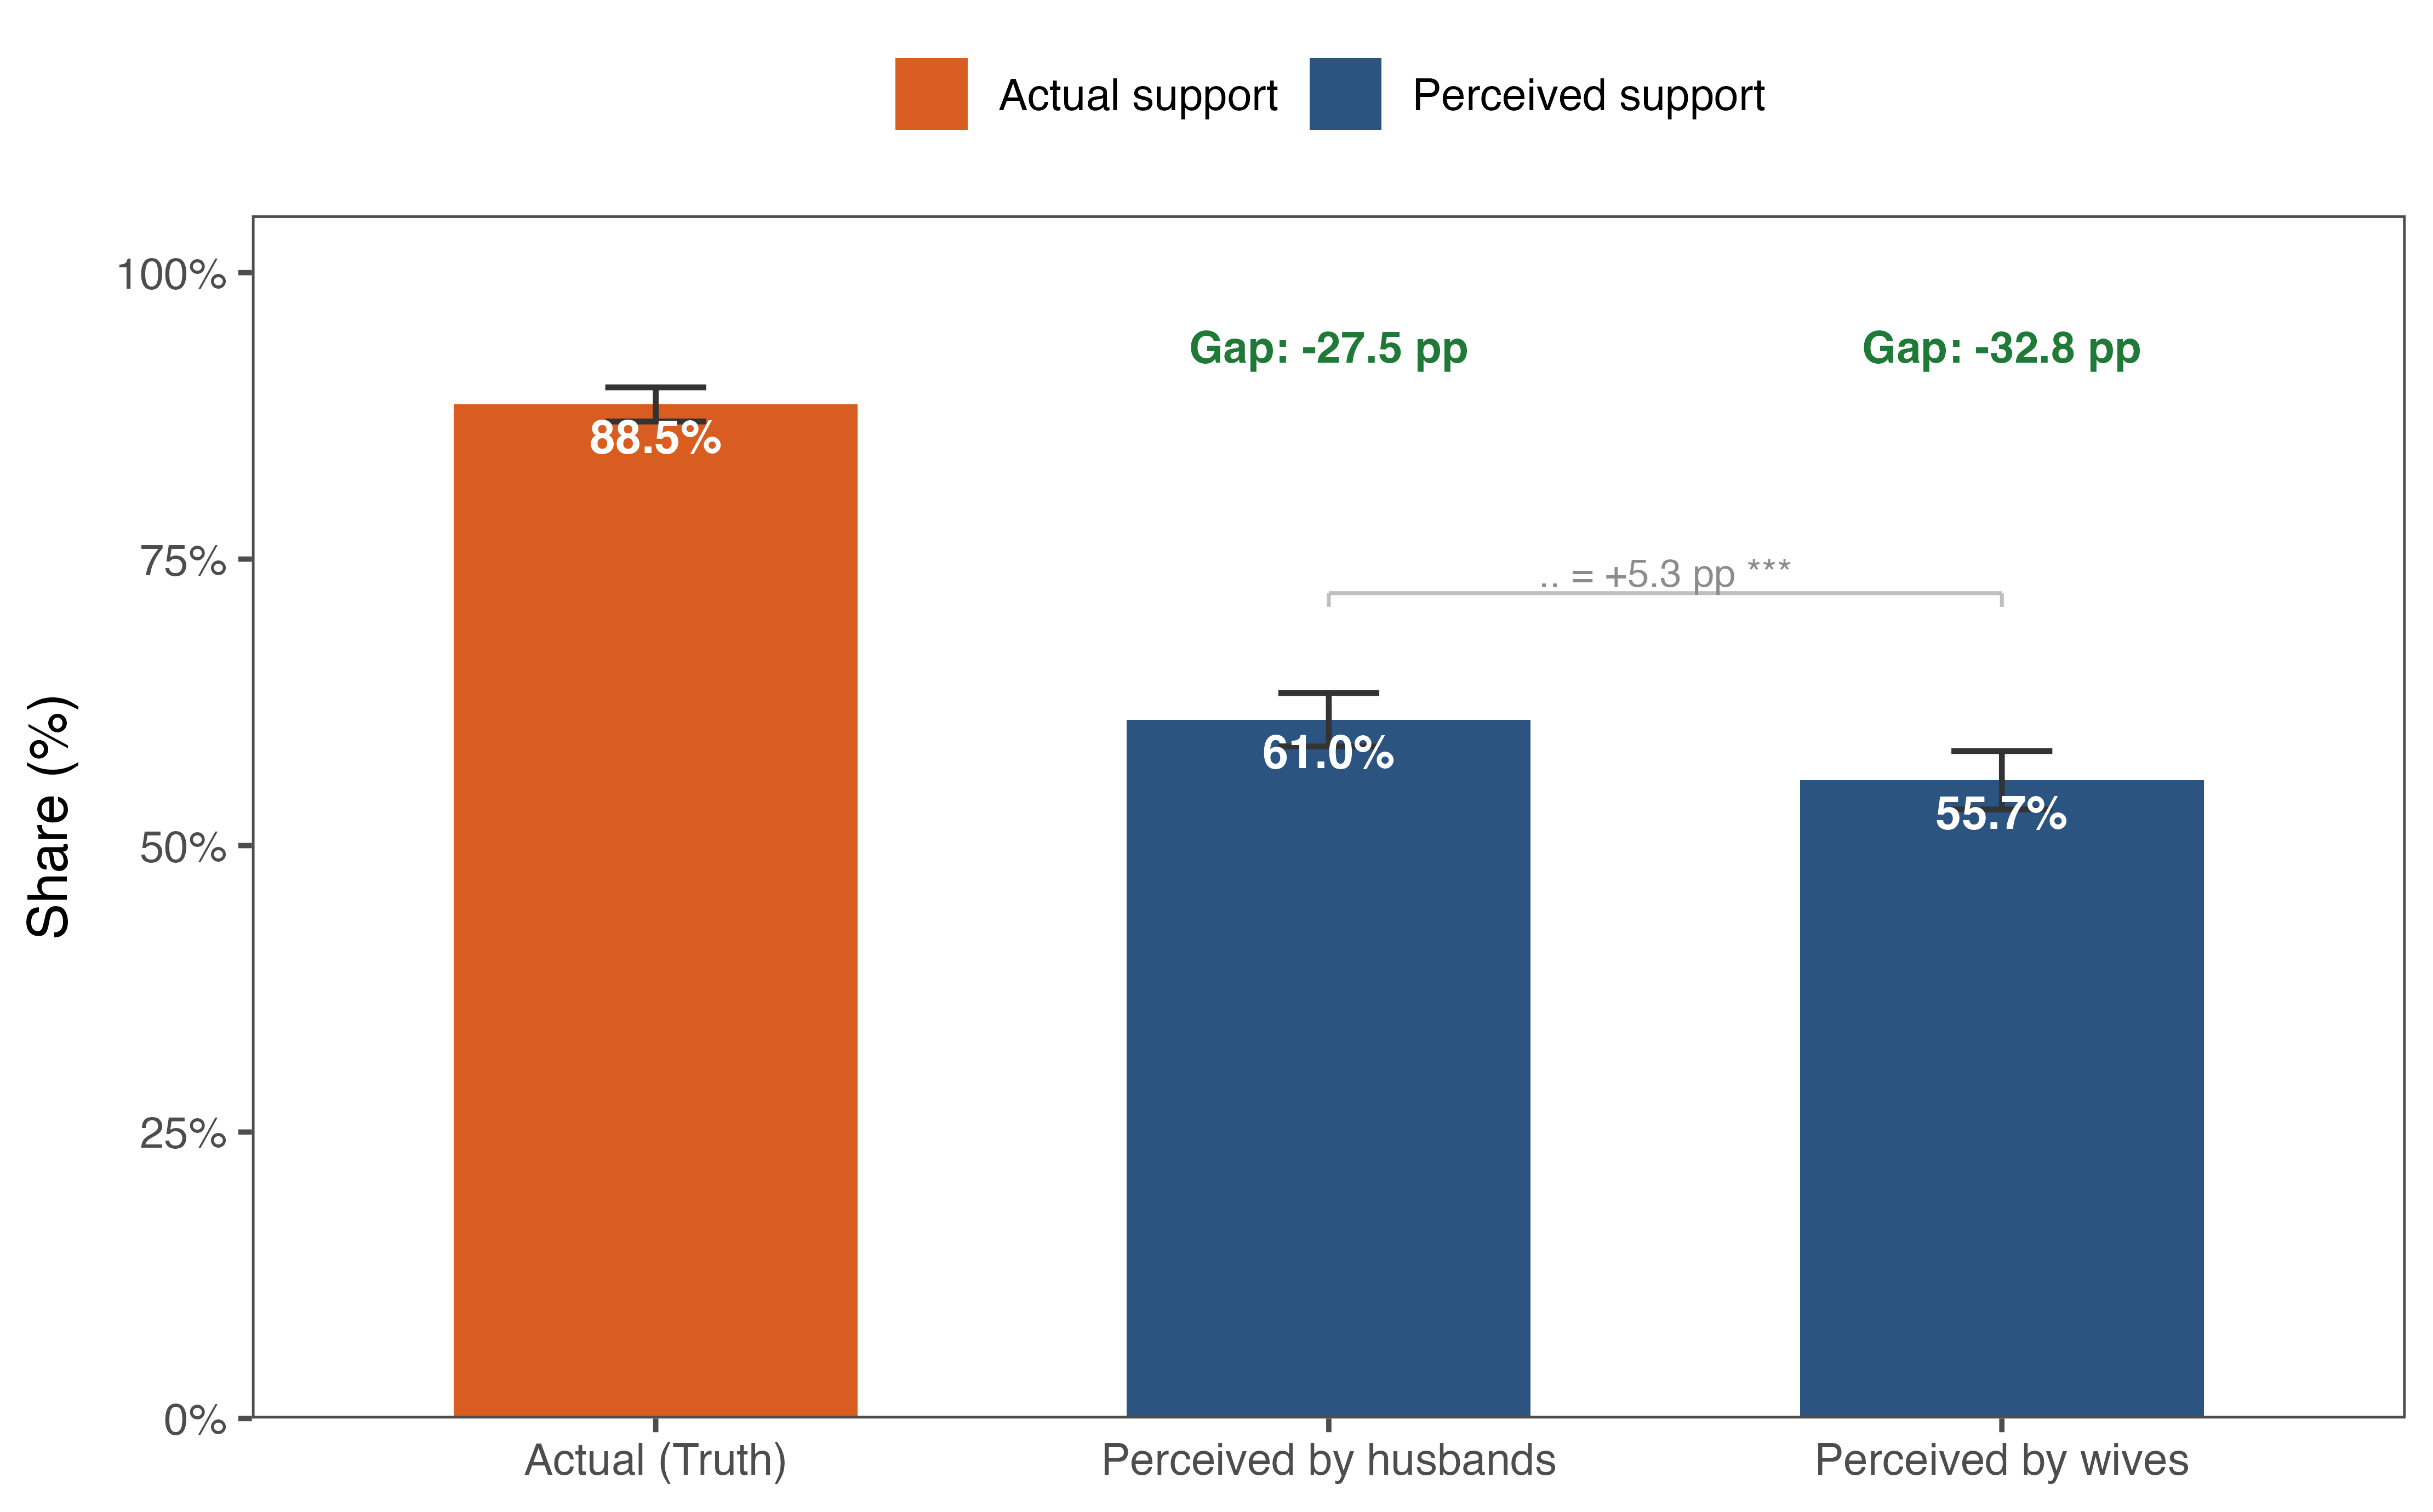
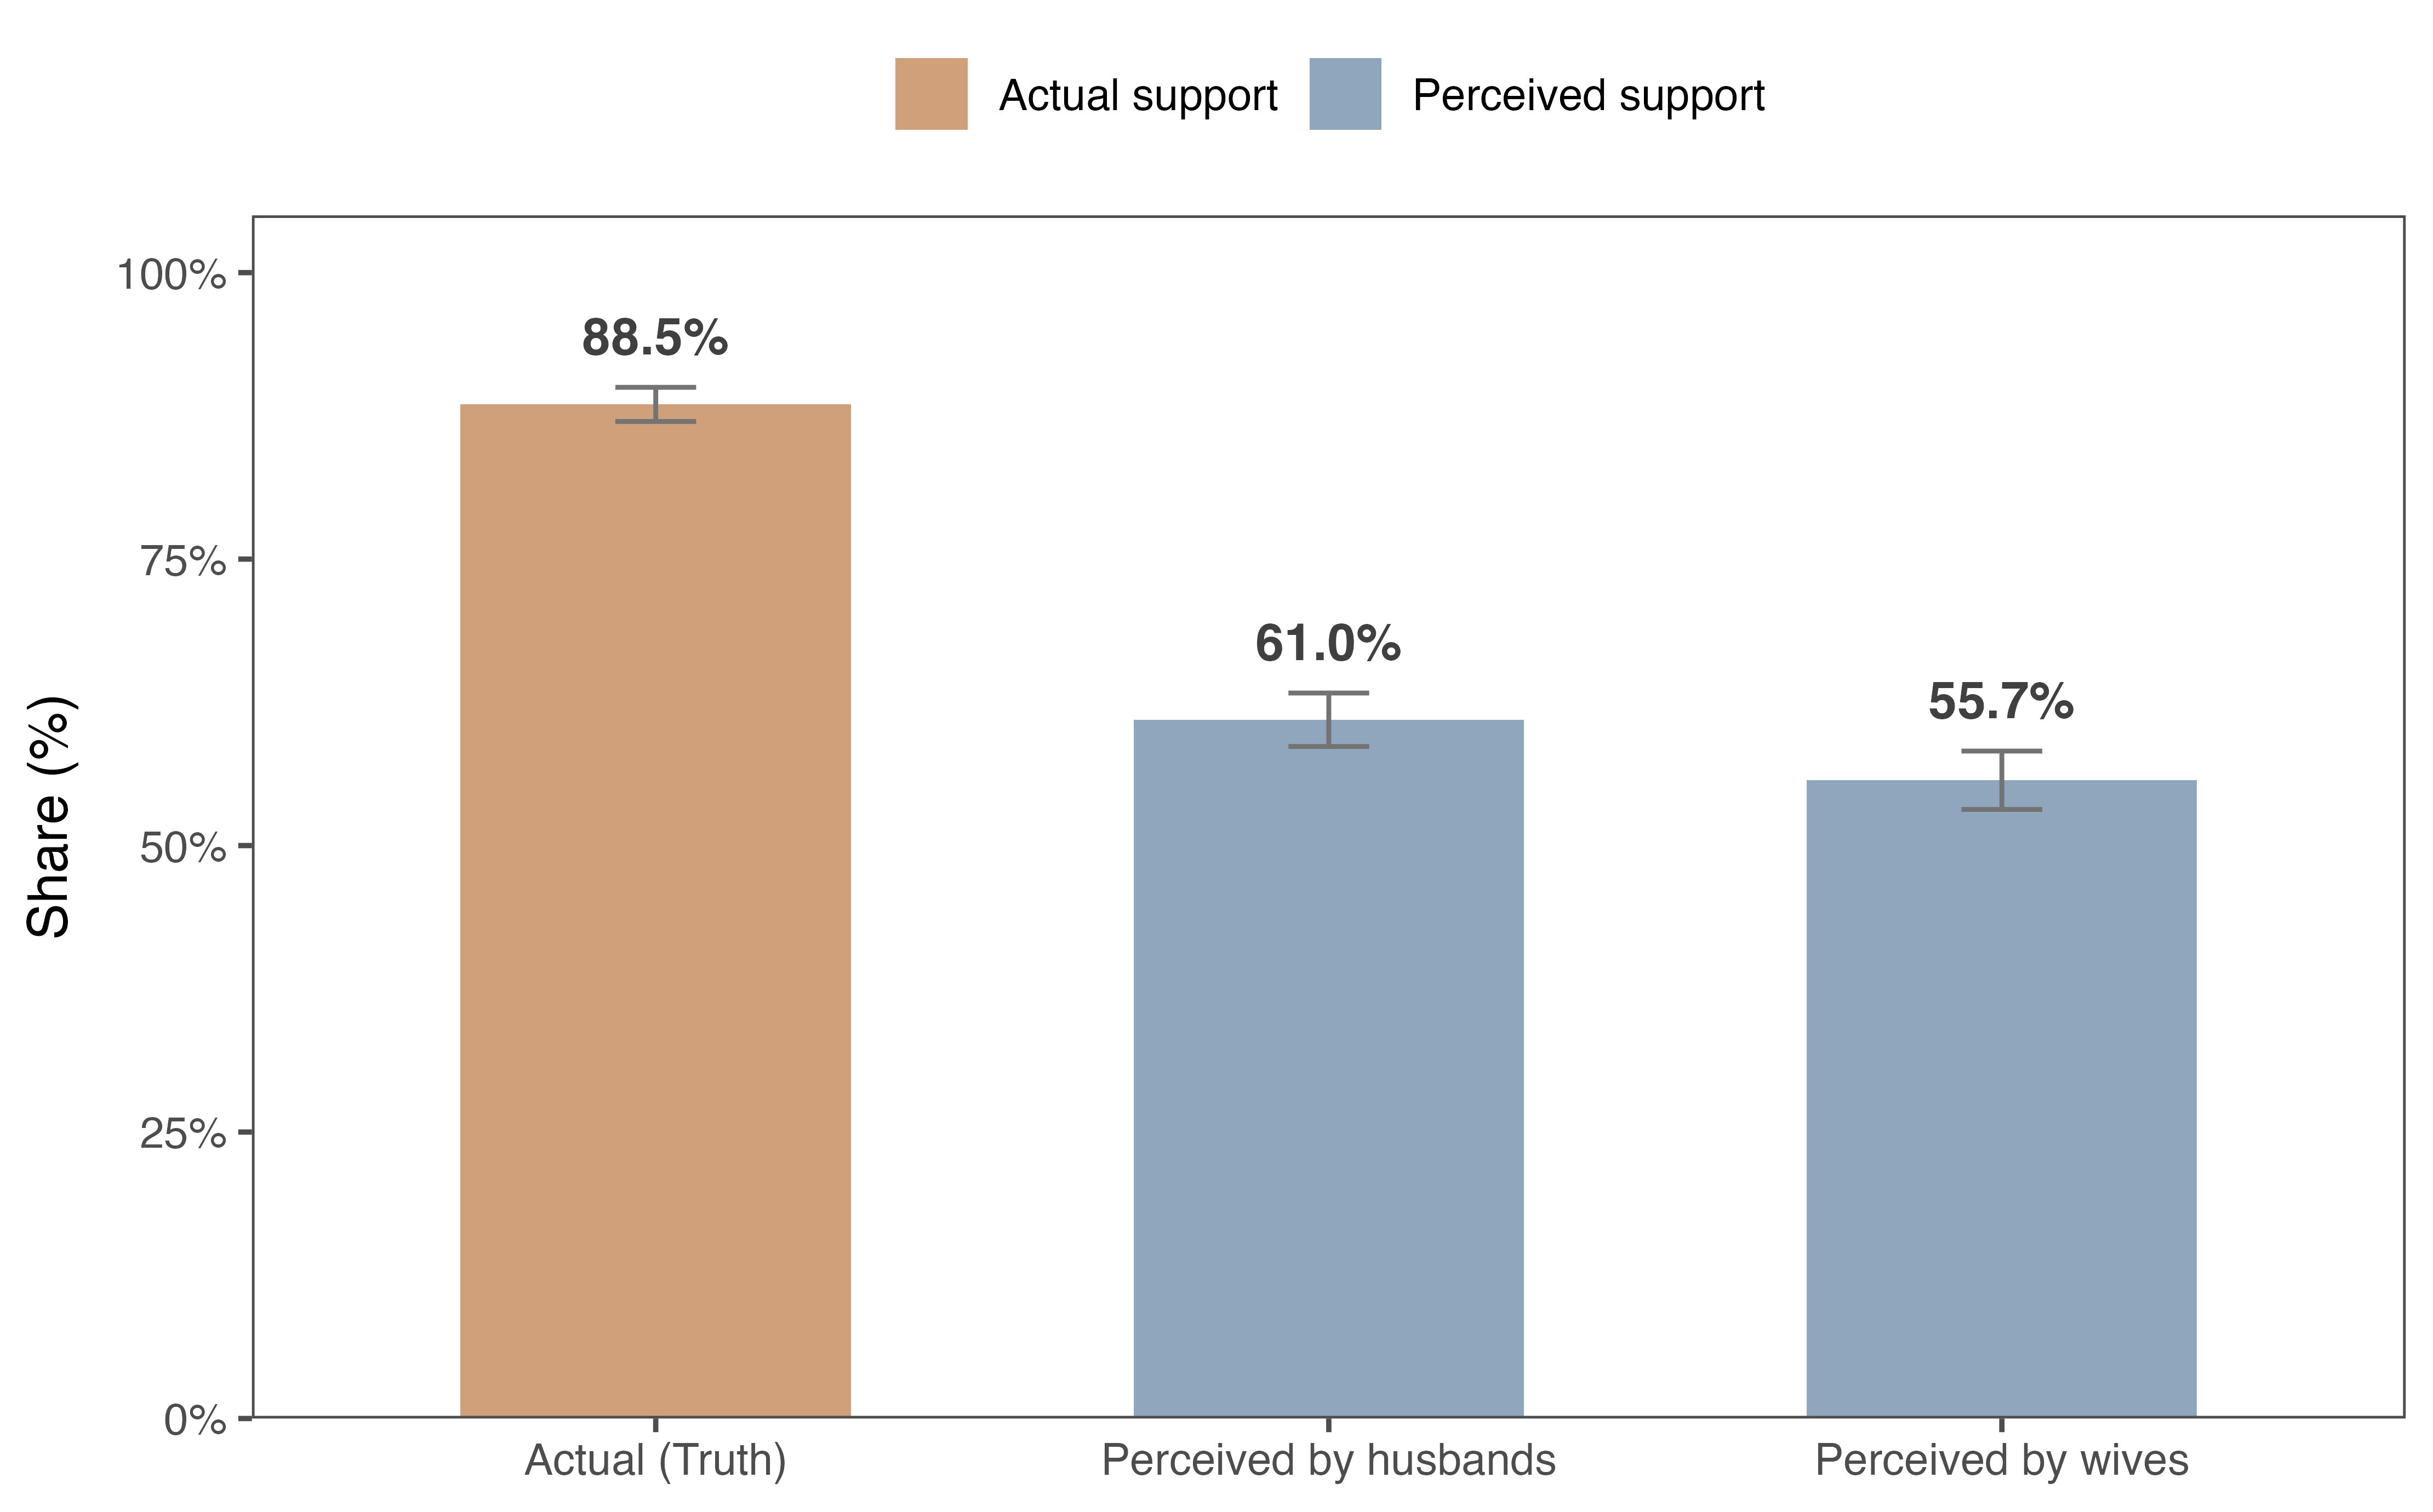
Barbados RIDGE: clarity pass after rehearsal
- Bigger section tag (.68em -> .82em) across all slides
- RQ2 dashboard: drop the binary misperception row, keep only
  "belief about partner" (per rehearsal note — was too busy)
- RQ4 dashboard: de-emphasize men's WFB (stated preference, secondary);
  women's job mobility is the clear headline
- FigureA1/A2: softer desaturated palette, value labels above bars in
  grey, gap labels and significance bracket removed (less visual noise)
- Baseline beliefs table moved to Appendix with bidirectional hyperlink
  (figures slide stays in body; table is Q&A backup)

diff --git a/presentaciones/norms-RIDGE-BARBADOS-2026.html b/presentaciones/norms-RIDGE-BARBADOS-2026.html
@@ -105,8 +105,8 @@ body {
   padding-bottom: 10px; margin-bottom: 20px; flex-shrink:0;
 }
 .sh .sec-tag {
-  color:var(--orange); font-size:.68em; font-weight:700;
-  letter-spacing:2px; text-transform:uppercase; margin-bottom:3px;
+  color:var(--orange); font-size:.82em; font-weight:700;
+  letter-spacing:1.5px; text-transform:uppercase; margin-bottom:4px;
 }
 .sh h2 { color:var(--navy); font-size:1.7em; font-weight:700; line-height:1.2; }
 
@@ -1358,52 +1358,15 @@ ul.bul li.gap { margin-top:10px; }
 </div>
 
 
-<!-- ══════════════════════════════════════════════
-     SLIDE 22 · BASELINE BELIEFS TABLE
-═══════════════════════════════════════════════ -->
-<div class="slide" data-section="Baseline Facts">
-  <div class="sh">
-    <div class="sec-tag">Baseline Facts · Beliefs</div>
-    <h2>Baseline Beliefs: Target Norm & Placebo</h2>
-  </div>
-  <div class="content" style="display:flex; justify-content:center;">
-    <table class="tbl" style="font-size:0.88em; width:80%;">
-      <thead>
-        <tr>
-          <th class="tl" style="width:45%;">Belief Type</th>
-          <th>Husbands</th>
-          <th>Wives</th>
-          <th>Difference</th>
-        </tr>
-      </thead>
-      <tbody>
-        <tr class="ph"><td colspan="4"><strong>A. Target Norm: "Mothers of children &lt;6 should be free to work"</strong></td></tr>
-        <tr><td class="tl"><strong>First-order</strong> (own view)</td><td><strong>88.5%</strong></td><td><strong>90.5%</strong></td><td>−2.0 pp**</td></tr>
-        <tr><td class="tl"><strong>Second-order: Men</strong> (estimate of fathers)</td><td class="sig2">61.0%</td><td class="sig2">55.7%</td><td class="sig">+5.3 pp***</td></tr>
-        <tr><td class="tl"><strong>Second-order: Women</strong> (estimate of mothers)</td><td>79.6%</td><td>80.0%</td><td>−0.4 pp</td></tr>
-        <tr><td class="tl"><strong>Spousal second-order</strong></td><td>93.9%</td><td>89.9%</td><td class="sig">+4.1 pp***</td></tr>
-
-        <tr class="ph"><td colspan="4"><strong>B. Placebo Norm: "Companies should subsidize public transport"</strong></td></tr>
-        <tr><td class="tl"><strong>First-order</strong> (own view)</td><td>93.5%</td><td>94.9%</td><td>−1.4 pp***</td></tr>
-      </tbody>
-    </table>
-  </div>
-  <div style="margin-top:12px; font-size:0.9em; text-align:center; color:#555;">
-    <p><strong>N = 1,732 couples.</strong> High first-order support for both norms (88–95%). Misperception concentrated on father's support for maternal employment (gap: 27–33 pp). Placebo norm shows no such gap.</p>
-  </div>
-  <div class="footer">
-    <span class="fl">Boltz · Bustelo · Díaz · Suaya</span>
-    <span class="fc">Baseline Facts</span>
-  </div>
-</div>
+<!-- Baseline beliefs table moved to Appendix (linked from the figures slide) -->
 
 
 <!-- ══════════════════════════════════════════════
      SLIDE 23 · FIGURES: MEN'S + WOMEN'S SUPPORT MISPERCEPTION (projection-resistant)
 ═══════════════════════════════════════════════ -->
-<div class="slide" data-section="Baseline Facts">
+<div class="slide" data-section="Baseline Facts" id="baseline-beliefs-main">
   <div class="sh">
-    <div class="sec-tag">Baseline Facts · Misperception of community support</div>
+    <div class="sec-tag">Baseline Facts · Misperception of community support &nbsp; <a href="javascript:void(0)" onclick="goToId('baseline-beliefs-table')" style="font-size:.82em; color:var(--navy); text-decoration:underline; font-weight:600;">📊 full table</a></div>
     <h2>Both sexes underestimate community support — sharply for men, mildly for women</h2>
   </div>
   <div class="content">
@@ -1843,20 +1806,14 @@ ul.bul li.gap { margin-top:10px; }
           </div>
         </div>
 
-        <!-- Working mothers block -->
-        <div style="font-size:.78em; color:var(--gray); text-transform:uppercase; letter-spacing:.5px; margin:6px 0 4px 0;">Working mothers</div>
-        <table style="width:100%; border-collapse:collapse; font-size:.86em;">
+        <table style="width:100%; border-collapse:collapse; font-size:.92em;">
           <tr style="border-bottom:1px solid #eee;">
-            <td style="padding:4px 0; color:var(--gray);">Own (FOB)</td>
-            <td style="text-align:right; color:#bbb; font-weight:600;">━ null</td>
+            <td style="padding:7px 0; color:var(--gray);">Own attitude (first-order belief)</td>
+            <td style="text-align:right; color:#bbb; font-weight:600;">━ &nbsp;null</td>
           </tr>
           <tr style="background:#F0EBFA;">
-            <td style="padding:7px 6px;"><strong style="color:var(--navy);">⚡ Belief about ♀'s support</strong></td>
-            <td style="text-align:right; padding:7px 6px;"><strong style="color:var(--red); font-size:1.15em;">+5.9 pp</strong> <span style="color:var(--red); font-weight:700;">★★</span></td>
-          </tr>
-          <tr>
-            <td style="padding:4px 0; color:var(--gray);">Misperception of ♀'s</td>
-            <td style="text-align:right; color:#bbb; font-weight:600;">━ null</td>
+            <td style="padding:10px 6px;"><strong style="color:var(--navy);">⚡ Belief about ♀'s support</strong></td>
+            <td style="text-align:right; padding:10px 6px;"><strong style="color:var(--red); font-size:1.2em;">+5.9 pp</strong> <span style="color:var(--red); font-weight:700;">★★</span></td>
           </tr>
         </table>
 
@@ -1872,20 +1829,14 @@ ul.bul li.gap { margin-top:10px; }
           </div>
         </div>
 
-        <!-- Working mothers block -->
-        <div style="font-size:.78em; color:var(--gray); text-transform:uppercase; letter-spacing:.5px; margin:6px 0 4px 0;">Working mothers</div>
-        <table style="width:100%; border-collapse:collapse; font-size:.86em;">
+        <table style="width:100%; border-collapse:collapse; font-size:.92em;">
           <tr style="border-bottom:1px solid #eee;">
-            <td style="padding:4px 0; color:var(--gray);">Own (FOB)</td>
-            <td style="text-align:right; color:#bbb; font-weight:600;">━ null</td>
+            <td style="padding:7px 0; color:var(--gray);">Own attitude (first-order belief)</td>
+            <td style="text-align:right; color:#bbb; font-weight:600;">━ &nbsp;null</td>
           </tr>
           <tr style="background:#F0EBFA;">
-            <td style="padding:7px 6px;"><strong style="color:var(--orange);">⚡ Belief about ♂'s support</strong></td>
-            <td style="text-align:right; padding:7px 6px;"><strong style="color:var(--red); font-size:1.15em;">+6.3 pp</strong> <span style="color:var(--red); font-weight:700;">★★</span></td>
-          </tr>
-          <tr>
-            <td style="padding:4px 0; color:var(--gray);">Misperception of ♂'s</td>
-            <td style="text-align:right; color:#bbb; font-weight:600;">━ null</td>
+            <td style="padding:10px 6px;"><strong style="color:var(--orange);">⚡ Belief about ♂'s support</strong></td>
+            <td style="text-align:right; padding:10px 6px;"><strong style="color:var(--red); font-size:1.2em;">+6.3 pp</strong> <span style="color:var(--red); font-weight:700;">★★</span></td>
           </tr>
         </table>
 
@@ -2080,21 +2031,21 @@ ul.bul li.gap { margin-top:10px; }
           </div>
         </div>
 
-        <table style="width:100%; border-collapse:collapse; font-size:.88em;">
+        <table style="width:100%; border-collapse:collapse; font-size:.92em;">
           <tr style="border-bottom:1px solid #eee;">
-            <td style="padding:6px 0; color:var(--gray);">Job mobility</td>
-            <td style="text-align:right; color:#bbb; font-weight:600;">━ null</td>
+            <td style="padding:7px 0; color:var(--gray);">Job mobility</td>
+            <td style="text-align:right; color:#bbb; font-weight:600;">━ &nbsp;null</td>
           </tr>
           <tr style="border-bottom:1px solid #eee;">
-            <td style="padding:6px 0; color:var(--gray);">LM aspirations</td>
-            <td style="text-align:right; color:#bbb; font-weight:600;">━ null</td>
+            <td style="padding:7px 0; color:var(--gray);">LM aspirations</td>
+            <td style="text-align:right; color:#bbb; font-weight:600;">━ &nbsp;null</td>
           </tr>
-          <tr style="background:#F0EBFA;">
-            <td style="padding:9px 6px;"><strong style="color:var(--navy); font-size:1.0em;">⚡ Work–family balance</strong></td>
-            <td style="text-align:right; padding:9px 6px;"><strong style="color:var(--red); font-size:1.2em;">+11 pp</strong> <span style="color:var(--red); font-weight:700;">★</span></td>
+          <tr>
+            <td style="padding:7px 0;">Work–family balance <span style="color:var(--gray); font-size:.85em;">(stated preference)</span></td>
+            <td style="text-align:right;"><strong>+11 pp</strong> <span style="color:var(--gray); font-weight:700;">★</span></td>
           </tr>
         </table>
-        <p style="font-size:.78em; color:var(--gray); margin:6px 0 0 0;">Control mean 32 % → treated 43 % (+35 % relative). Robust in Sample 3 (+6.6 pp ★).</p>
+        <p style="font-size:.78em; color:var(--gray); margin:6px 0 0 0;">WFB is a stated preference — interpret with caution (possible social-desirability echo; see SDB slide). The clear behavioural result is on the women's side.</p>
       </div>
 
       <!-- WOMEN COLUMN -->
@@ -2880,6 +2831,46 @@ ul.bul li.gap { margin-top:10px; }
   </div>
 </div>
 
+
+
+<!-- SLIDE A1c · BASELINE BELIEFS TABLE (moved from Baseline Facts) -->
+<div class="slide" data-section="Appendix" id="baseline-beliefs-table">
+  <div class="app-badge">Appendix · backup table</div>
+  <div class="sh">
+    <div class="sec-tag">Appendix · Baseline beliefs — full table</div>
+    <h2>Baseline Beliefs: Target Norm &amp; Placebo</h2>
+  </div>
+  <div class="content" style="display:flex; flex-direction:column; align-items:center; justify-content:flex-start;">
+    <table class="tbl" style="font-size:0.88em; width:80%;">
+      <thead>
+        <tr>
+          <th class="tl" style="width:45%;">Belief Type</th>
+          <th>Husbands</th>
+          <th>Wives</th>
+          <th>Difference</th>
+        </tr>
+      </thead>
+      <tbody>
+        <tr class="ph"><td colspan="4"><strong>A. Target Norm: "Mothers of children &lt;6 should be free to work"</strong></td></tr>
+        <tr><td class="tl"><strong>First-order</strong> (own view)</td><td><strong>88.5%</strong></td><td><strong>90.5%</strong></td><td>−2.0 pp**</td></tr>
+        <tr><td class="tl"><strong>Second-order: Men</strong> (estimate of fathers)</td><td class="sig2">61.0%</td><td class="sig2">55.7%</td><td class="sig">+5.3 pp***</td></tr>
+        <tr><td class="tl"><strong>Second-order: Women</strong> (estimate of mothers)</td><td>79.6%</td><td>80.0%</td><td>−0.4 pp</td></tr>
+        <tr><td class="tl"><strong>Spousal second-order</strong></td><td>93.9%</td><td>89.9%</td><td class="sig">+4.1 pp***</td></tr>
+
+        <tr class="ph"><td colspan="4"><strong>B. Placebo Norm: "Companies should subsidize public transport"</strong></td></tr>
+        <tr><td class="tl"><strong>First-order</strong> (own view)</td><td>93.5%</td><td>94.9%</td><td>−1.4 pp***</td></tr>
+      </tbody>
+    </table>
+    <div style="margin-top:12px; font-size:0.9em; text-align:center; color:#555;">
+      <p><strong>N = 1,732 couples.</strong> High first-order support for both norms (88–95%). Misperception concentrated on father's support for maternal employment (gap: 27–33 pp). Placebo norm shows no such gap.</p>
+    </div>
+  </div>
+  <div class="footer">
+    <span class="fl">Boltz · Bustelo · Díaz · Suaya</span>
+    <span class="fc">Backup · Baseline beliefs</span>
+    <span class="fr"><a href="javascript:void(0)" onclick="goToId('baseline-beliefs-main')" style="color:var(--orange); text-decoration:underline; font-weight:600;">← back to main slide</a></span>
+  </div>
+</div>
 
 
 <!-- SLIDE A1b · WITHIN-COUPLE EXPOSURE (moved from main results) -->